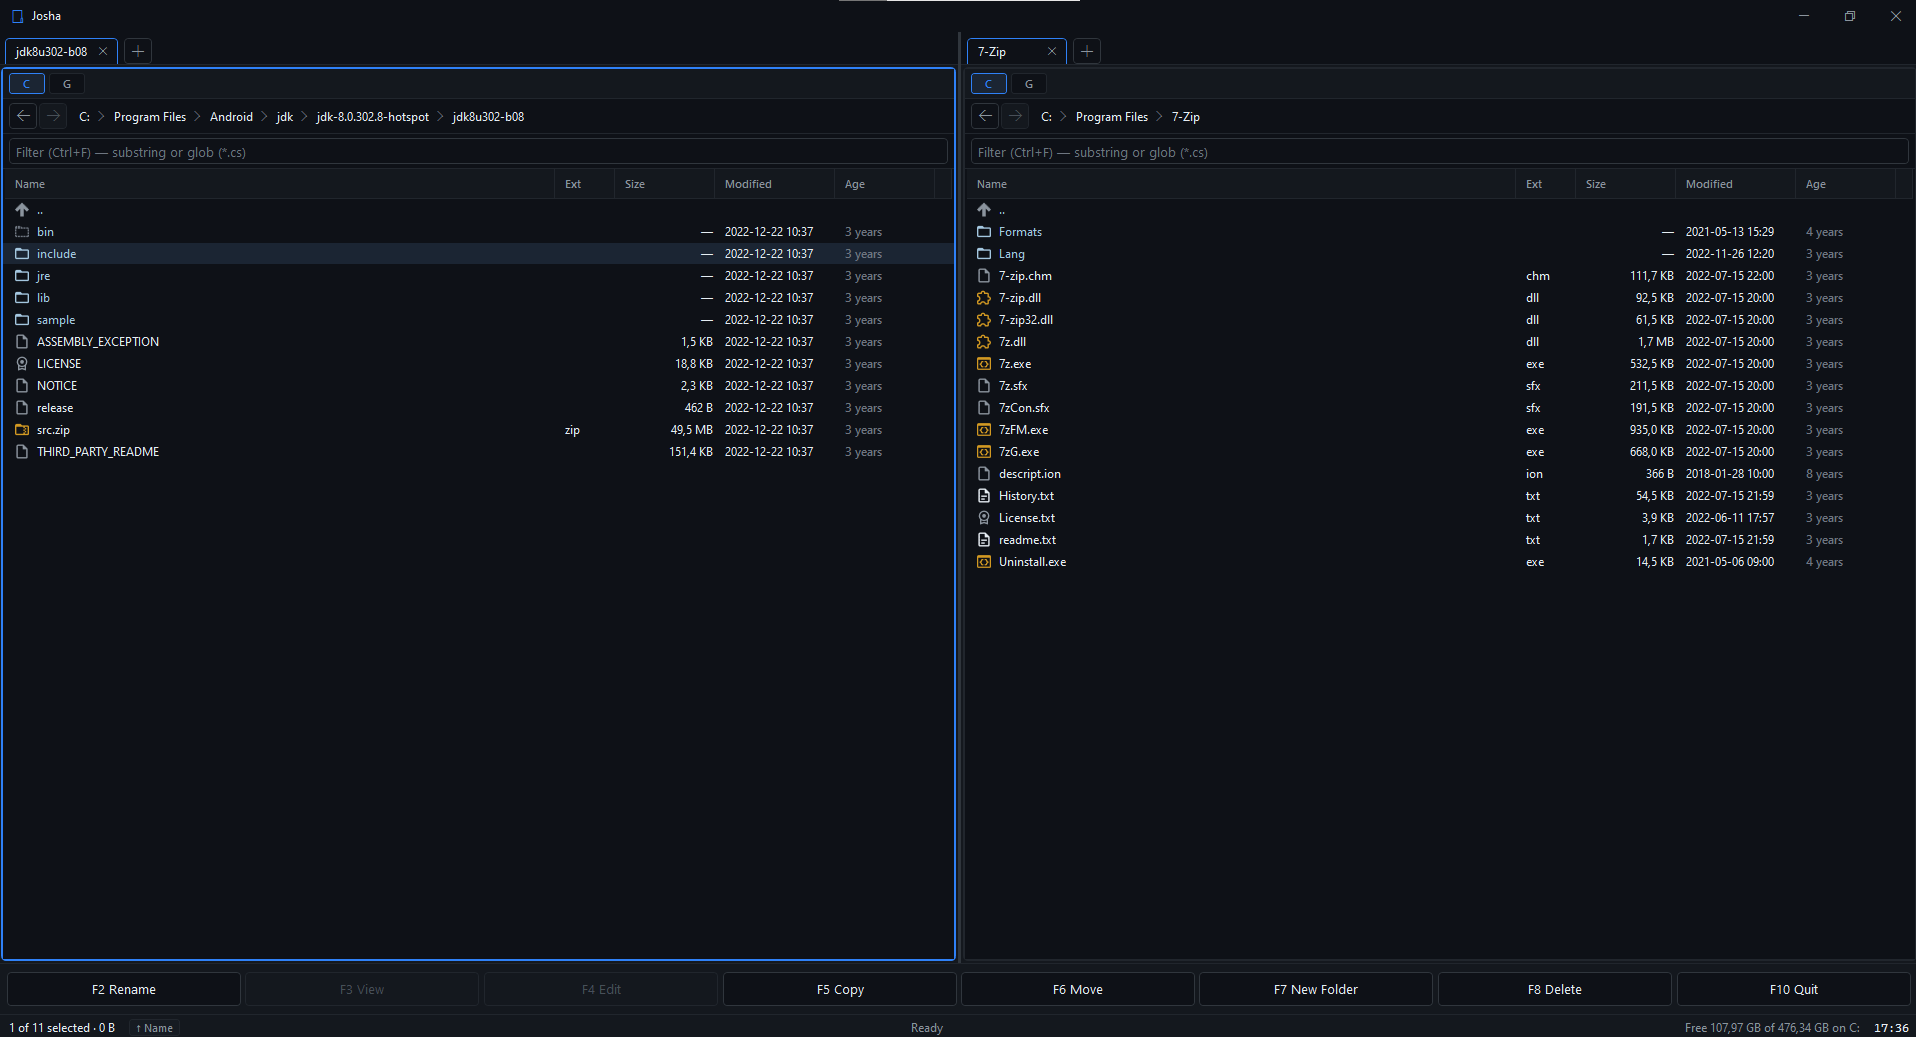
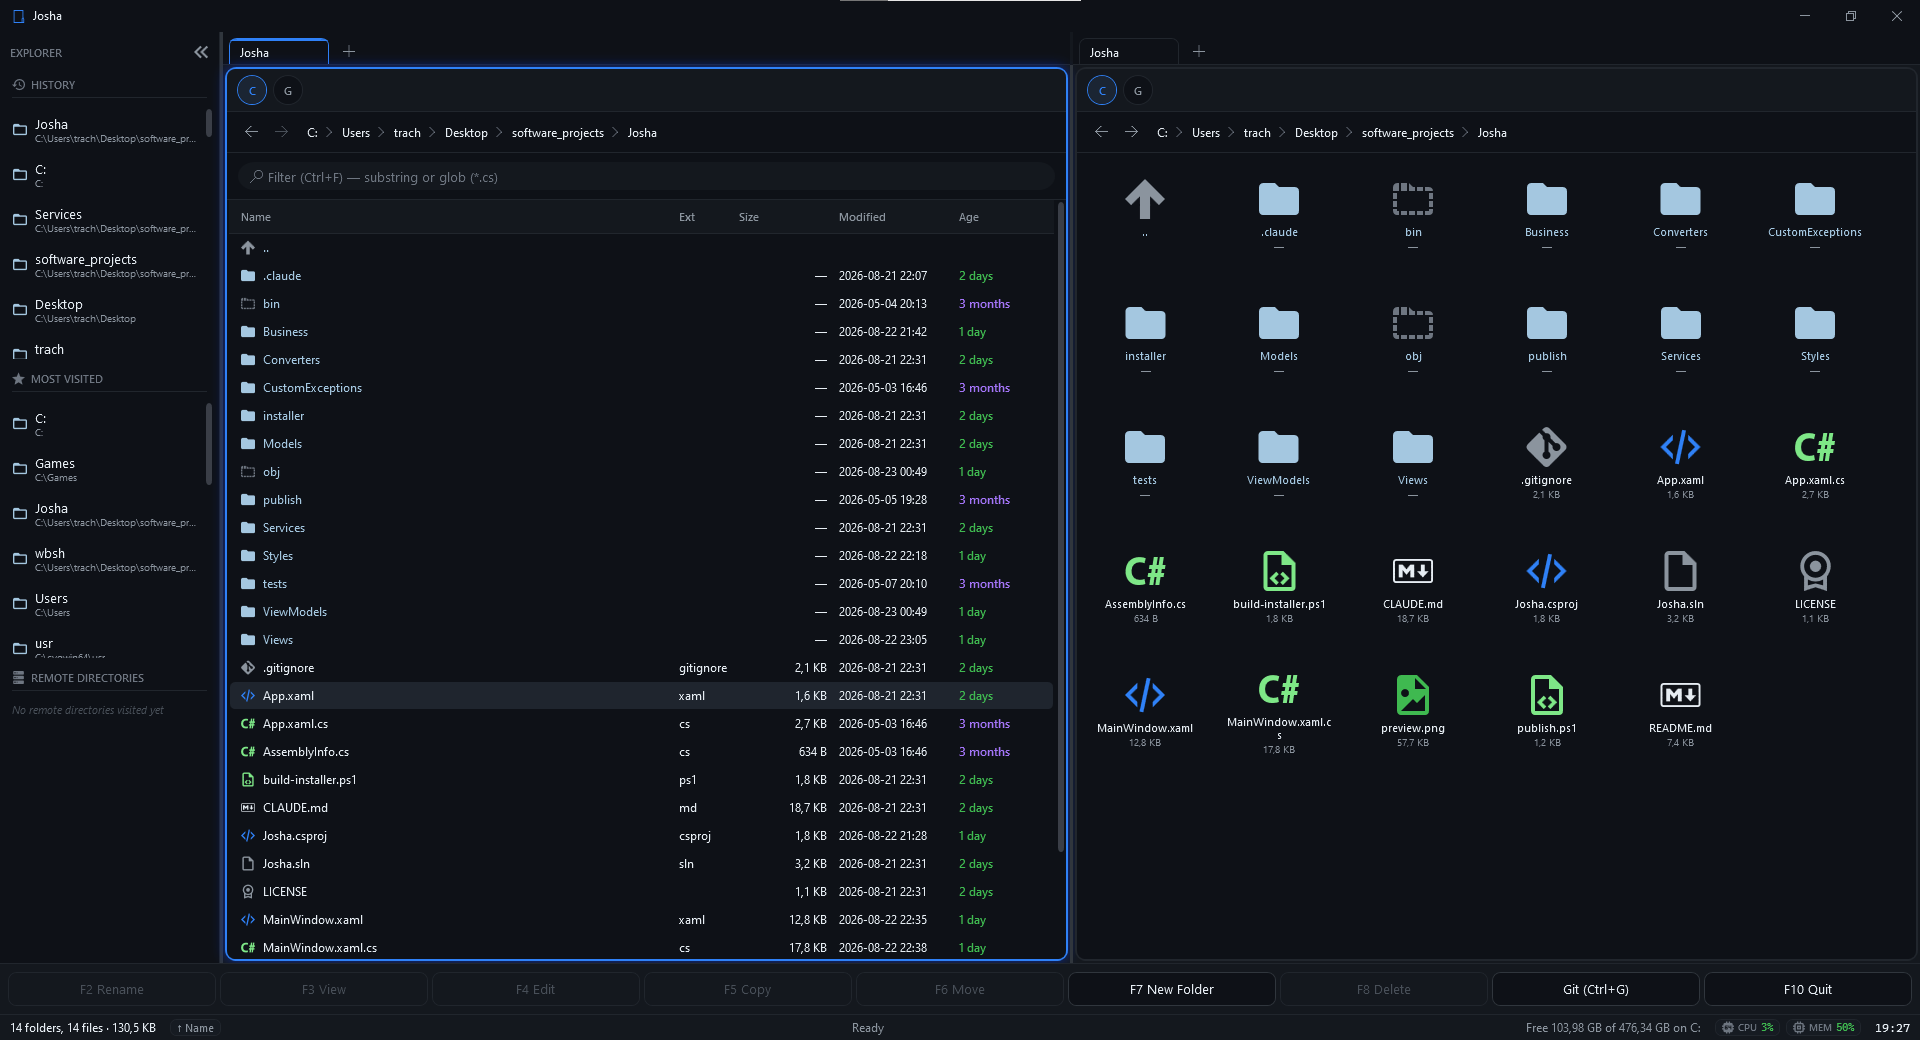
update preview

diff --git a/ViewModels/FilePaneViewModel.cs b/ViewModels/FilePaneViewModel.cs
@@ -571,6 +571,12 @@ namespace Josha.ViewModels
                     return;
                 }
 
+                try { await AppServices.Snapshot.ReconcileAsync(drive).ConfigureAwait(true); }
+                catch (Exception ex)
+                {
+                    Log.Warn("Pane", $"Snapshot reconcile failed for drive {drive}", ex);
+                }
+
                 var subtree = driveRoot.FindByPath(path);
                 if (subtree == null)
                 {
